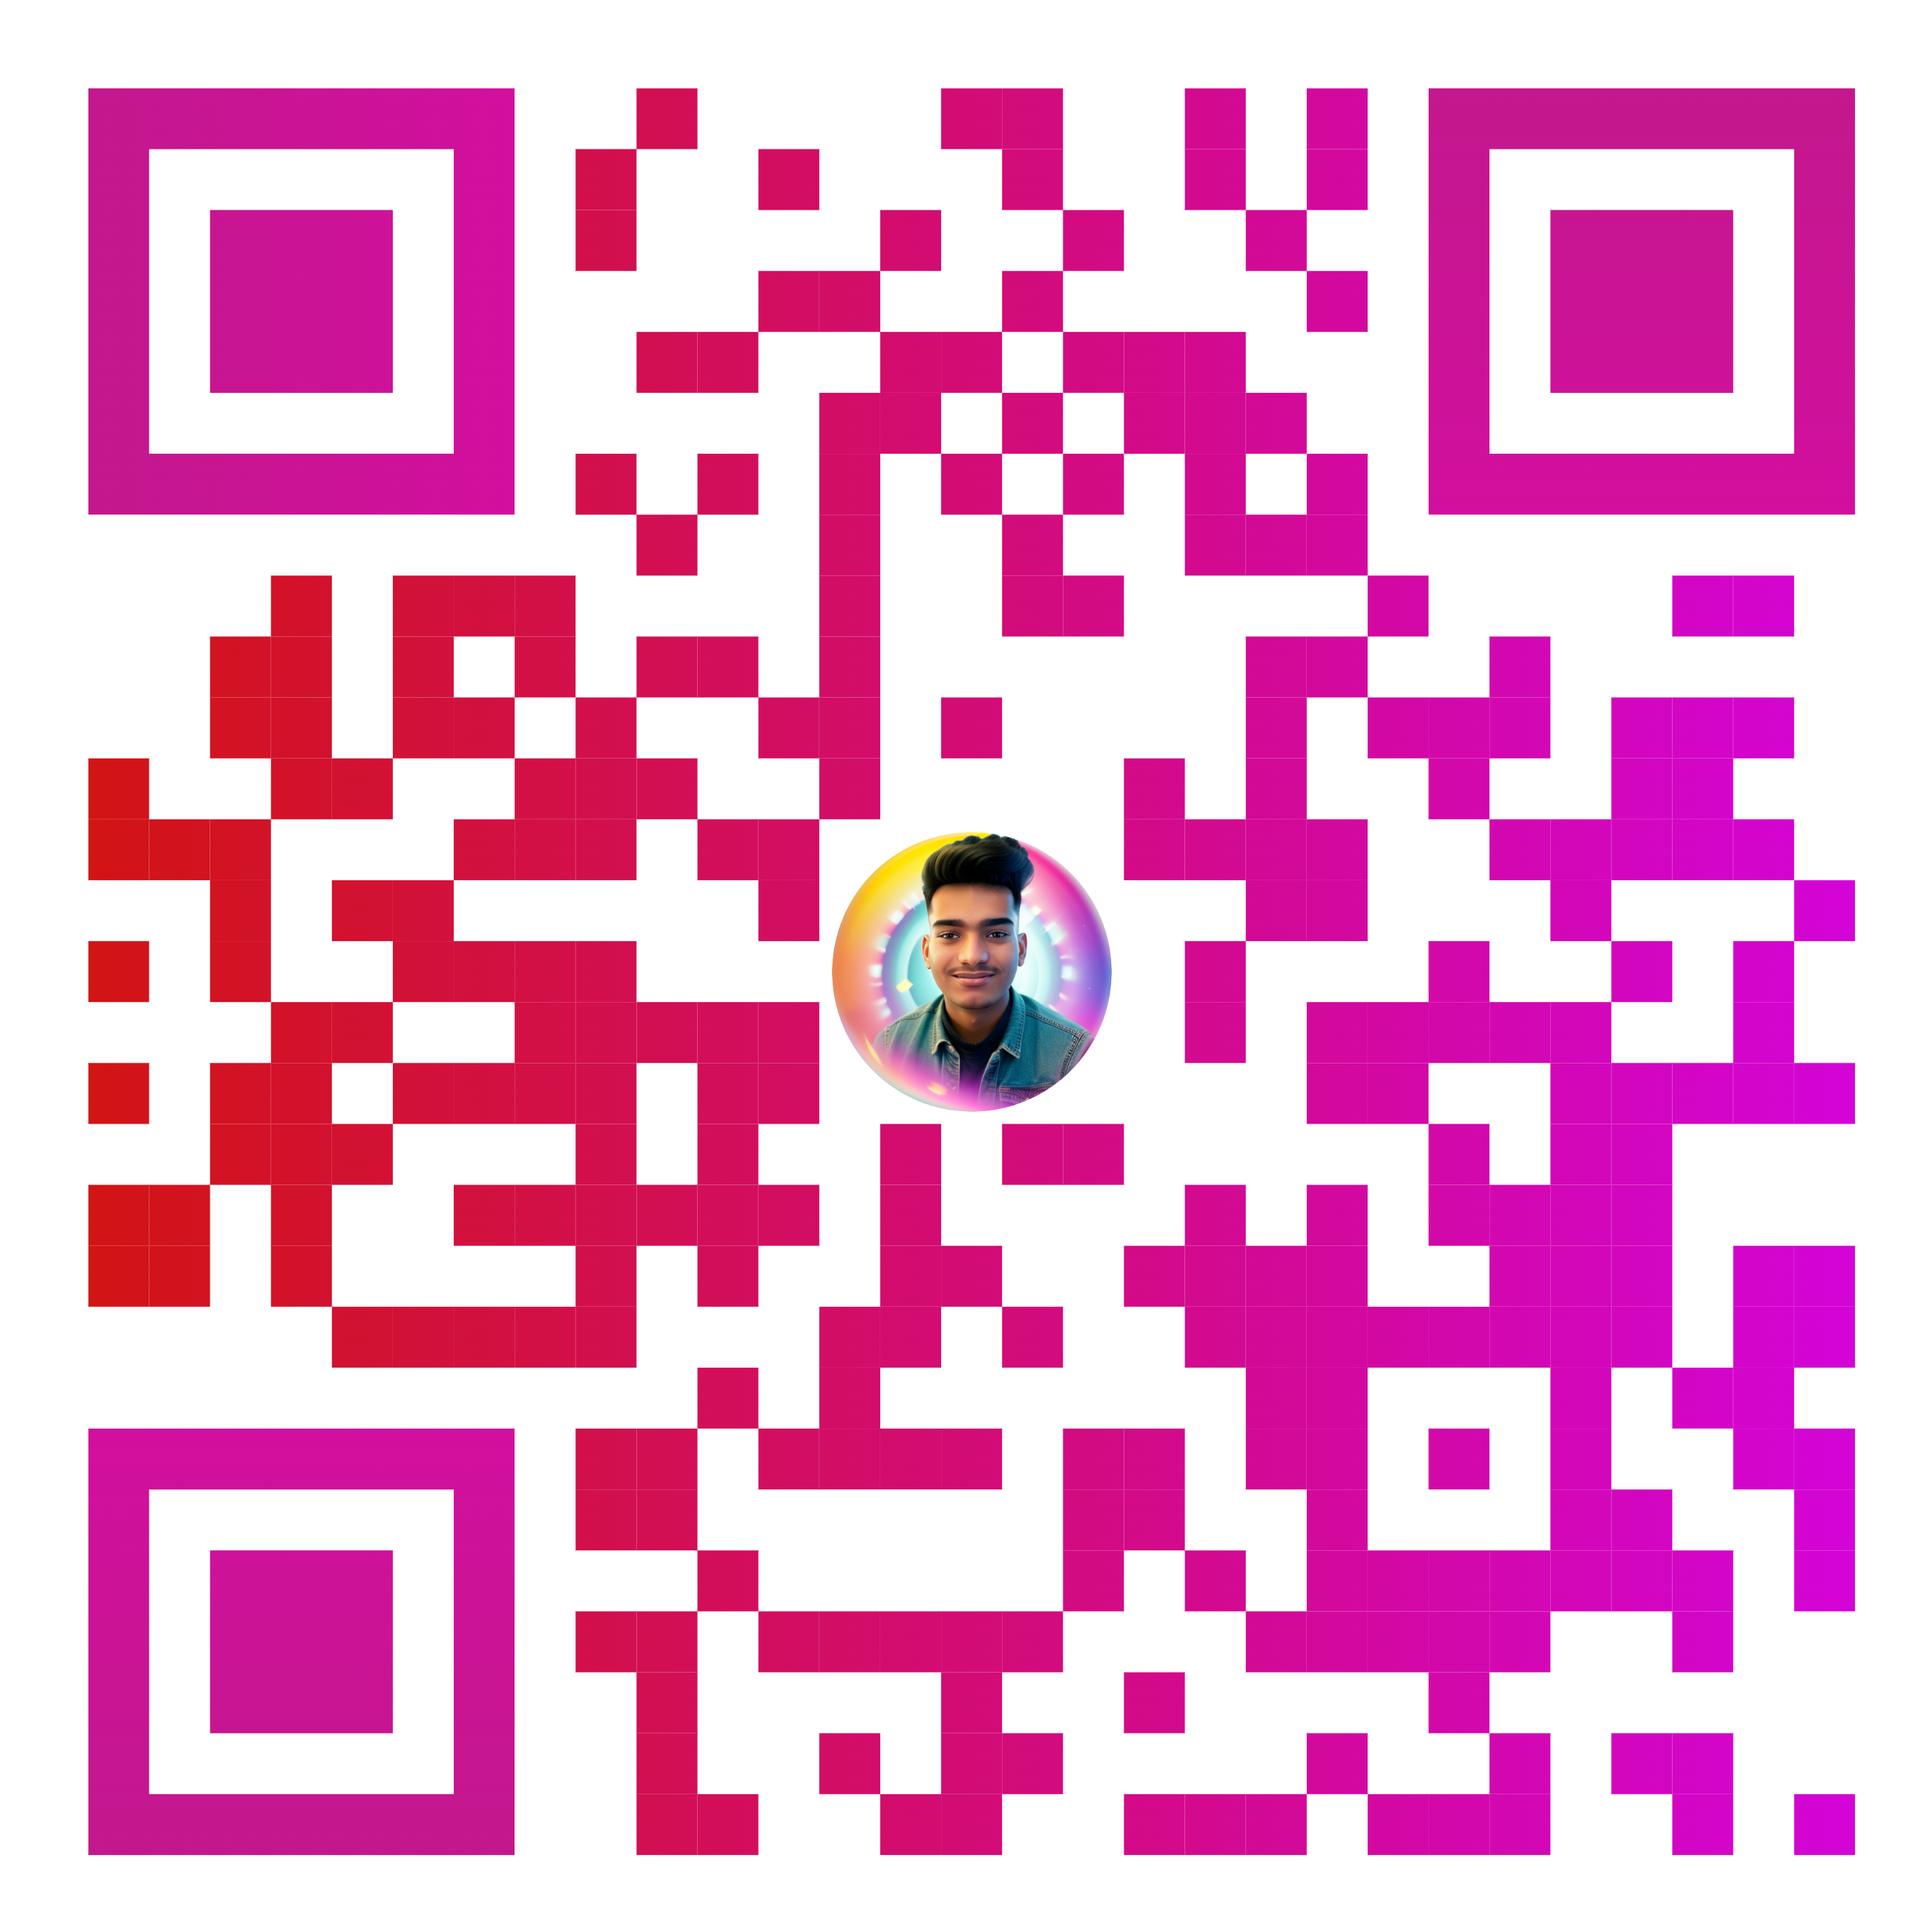
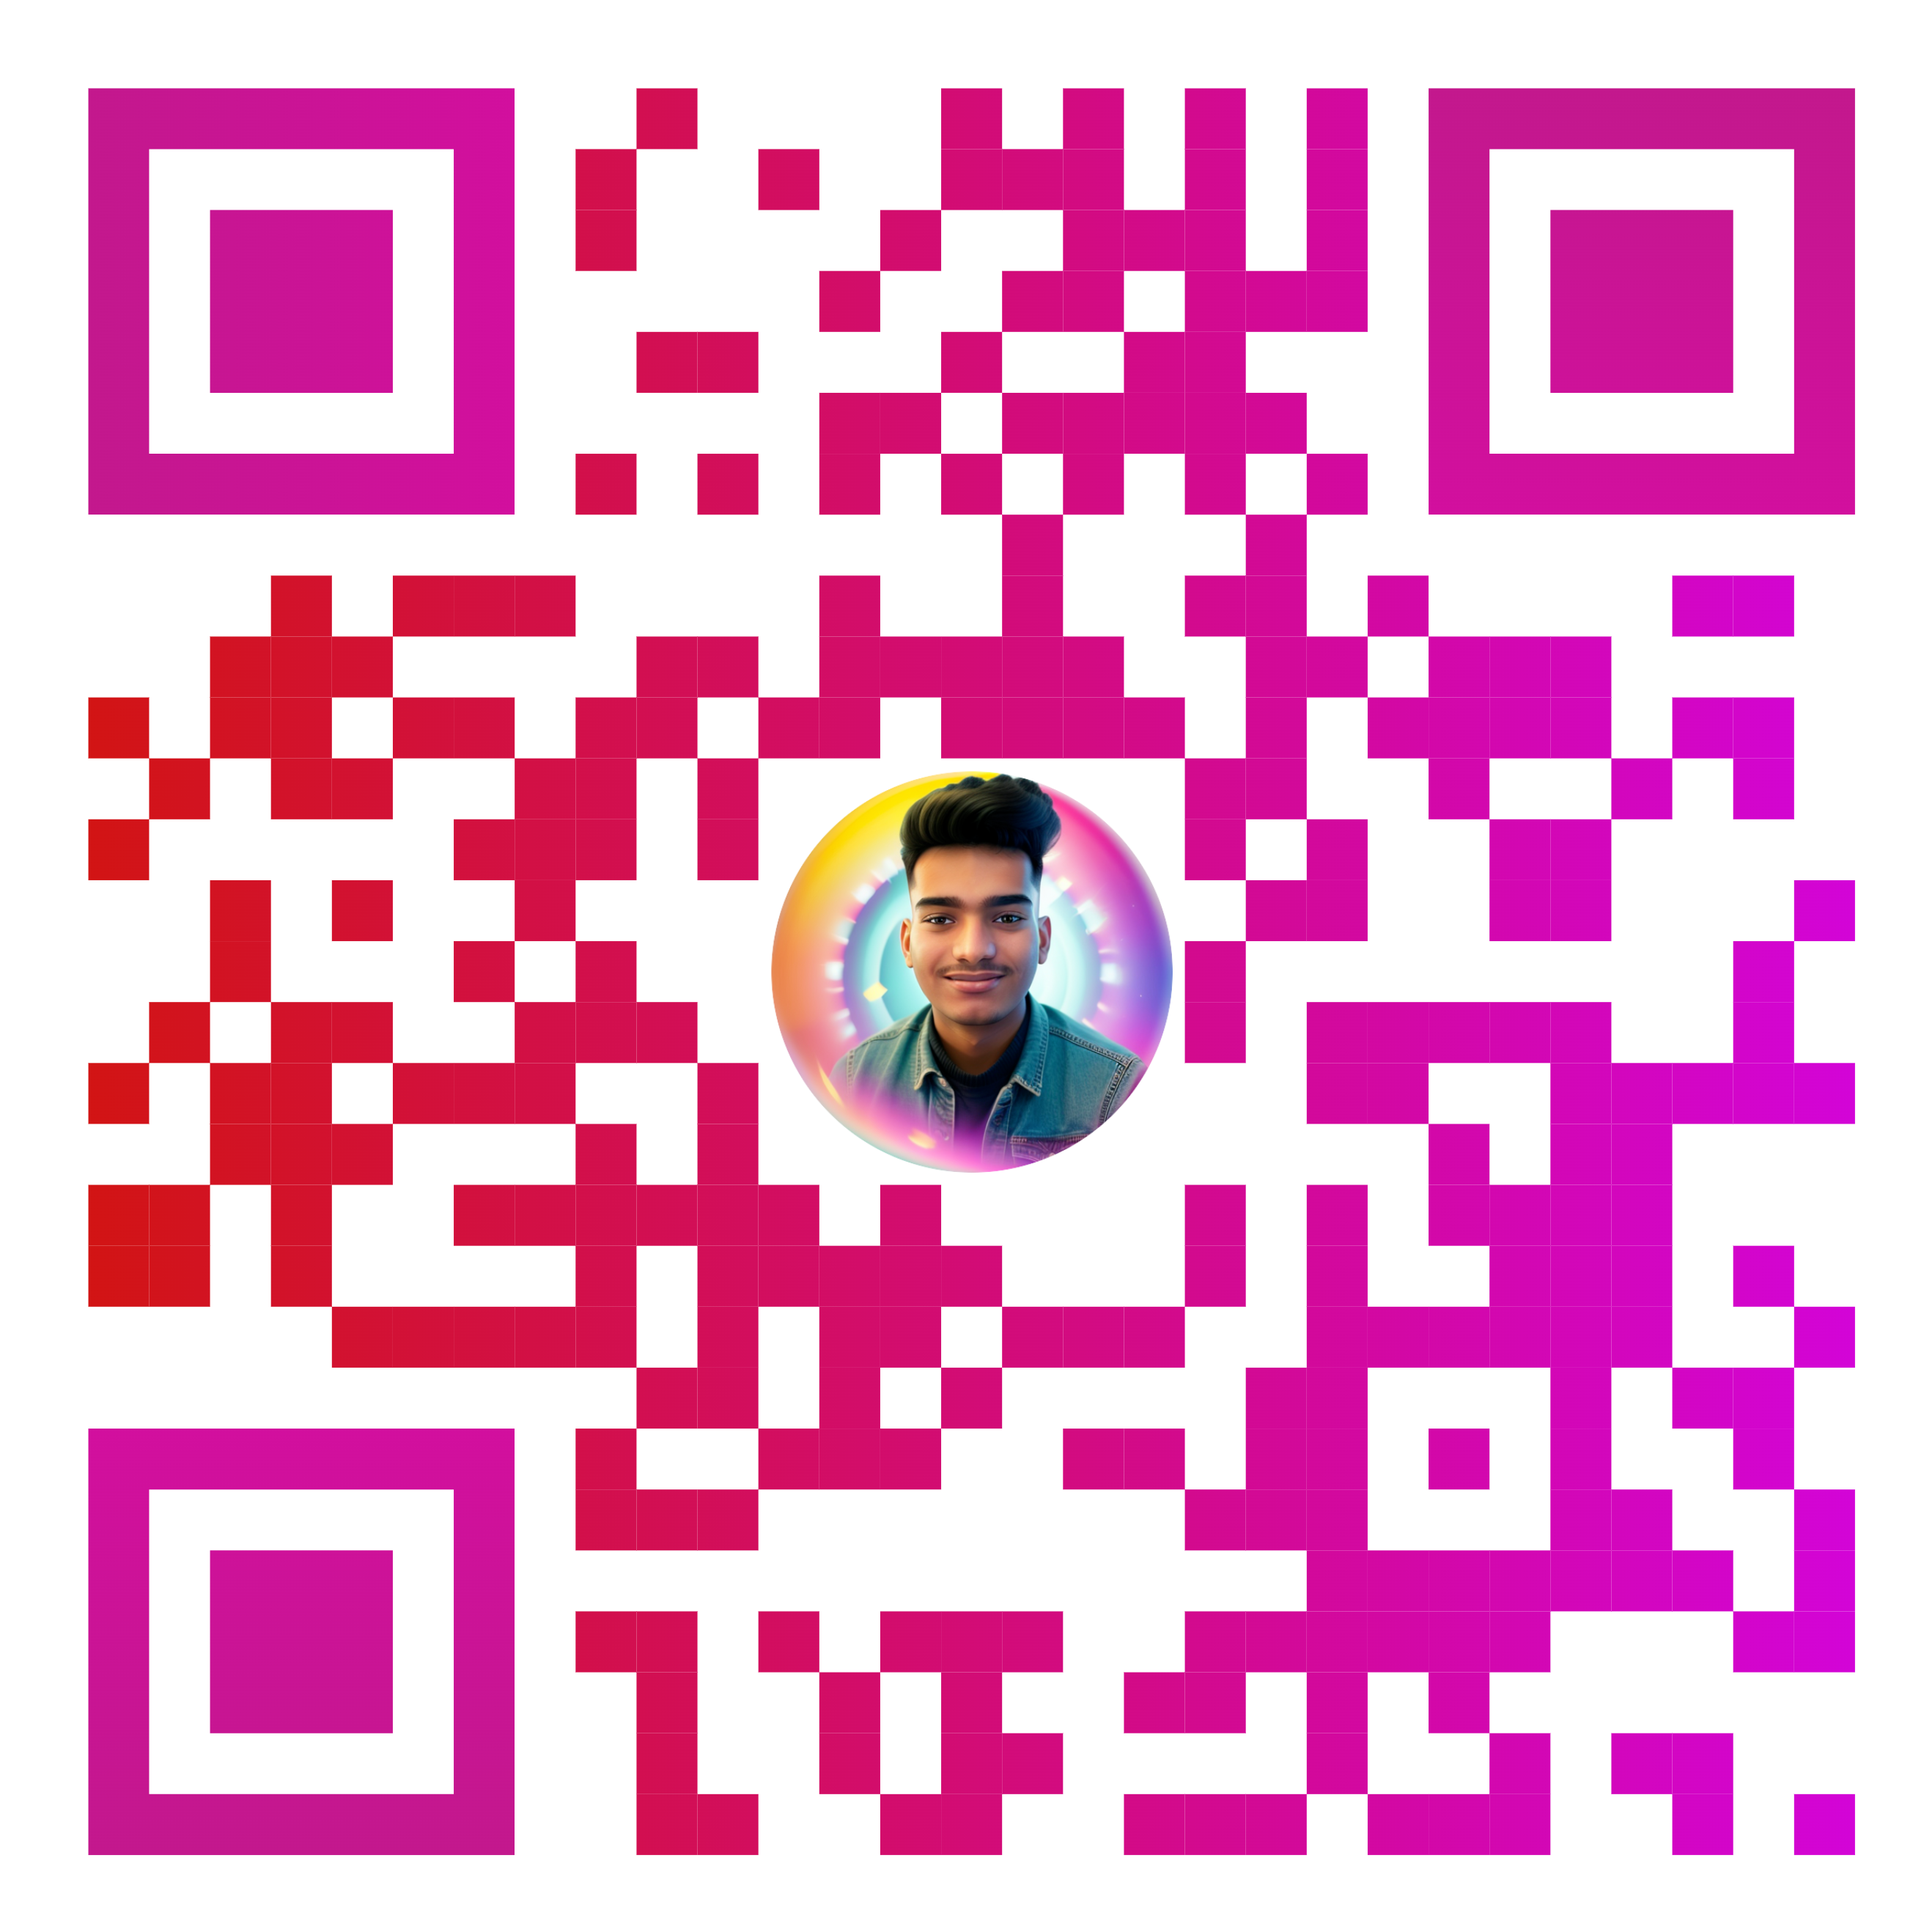
updated qr for deployed url

diff --git a/scripts.js b/scripts.js
@@ -20,7 +20,7 @@ const closeModal = () => {
 //function to copy url to clipboard
 async function copyLink() {
     try {
-      await navigator.clipboard.writeText("https://rahulwagh.bio.link");
+      await navigator.clipboard.writeText("https://rahulwagh-bio.vercel.app");
       copy.innerText = "copied";
     }
     catch(e) {
@@ -35,7 +35,7 @@ async function copyLink() {
   //function to share bio link on twitter
   function shareOnTwitter() {
     // Construct the tweet text
-    var tweetText = encodeURIComponent("Checkout this bio link of Rahul Wagh: https://rahulwagh.bio.link");
+    var tweetText = encodeURIComponent("Checkout this bio link of Rahul Wagh: https://rahulwagh-bio.vercel.app");
 
     // Open Twitter in a new window with the share URL
     window.open("https://twitter.com/intent/tweet?text=" + tweetText, "_blank");
@@ -46,7 +46,7 @@ async function copyLink() {
 function shareViaEmail() {
     var recipientEmail = ''; 
     var subject = 'Check out this Bio Link';
-    var body = 'Checkout this bio link of Rahul Wagh: https://rahulwagh.bio.link';
+    var body = 'Checkout this bio link of Rahul Wagh: https://rahulwagh-bio.vercel.app';
 
     var mailtoLink = 'mailto:' + recipientEmail +
         '?subject=' + encodeURIComponent(subject) +
@@ -57,7 +57,7 @@ function shareViaEmail() {
 
 //function to share on whatsapp
 function shareViaWhatsApp() {
-    var text = 'Checkout this link: https://rahulwagh.bio.link';
+    var text = 'Checkout this bio link of Rahul Wagh: https://rahulwagh-bio.vercel.app';
     
     var whatsappLink = 'https://api.whatsapp.com/send?text=' + encodeURIComponent(text);
     

diff --git a/index.html b/index.html
@@ -93,7 +93,7 @@
     <div class="url-container">
         <div class="url">
           <i class="fa-solid fa-link link-icon"></i>
-          <span>https://rahulwagh.bio.link</span>
+          <span>https://rahulwagh-bio.vercel.app</span>
         </div>
         <button class="copyBtn">
             <div class="copy" onclick="copyLink()">Copy</div>

diff --git a/styles.css b/styles.css
@@ -86,6 +86,9 @@ body{
   border-radius: 50%;
   cursor: pointer;
 }
+.share-container:hover{
+  scale: 1.1;
+}
  
 /* modal */
 
